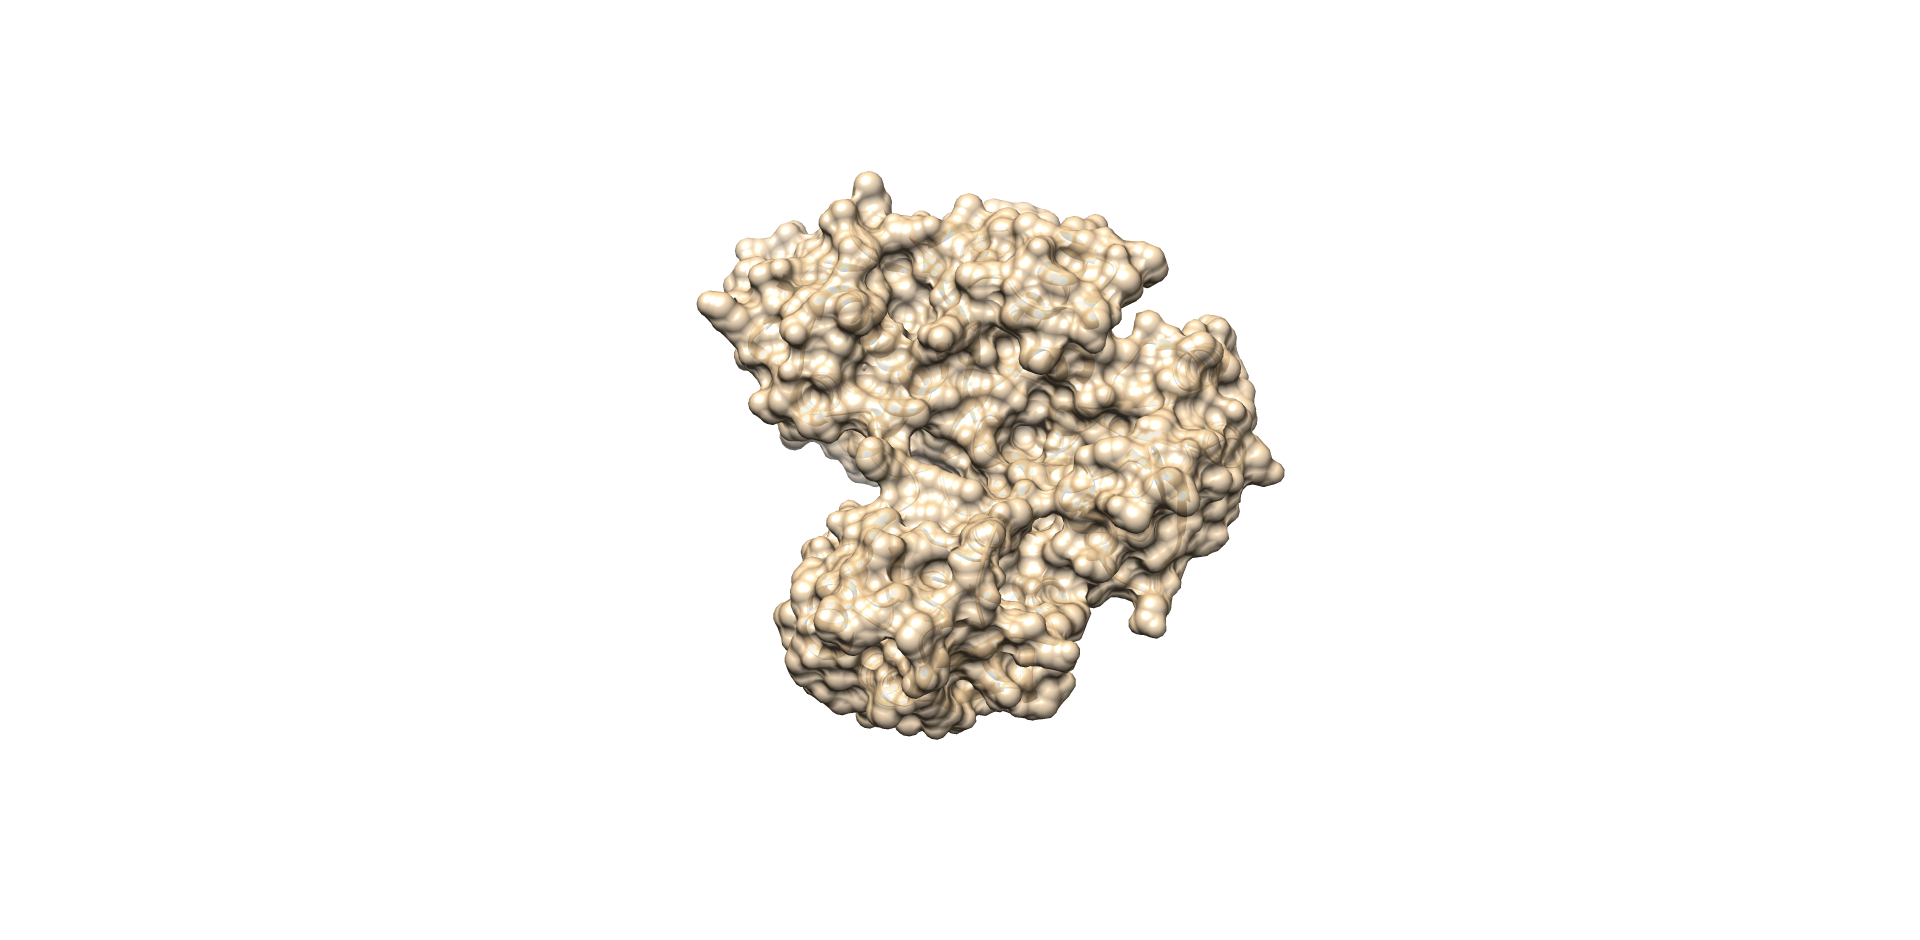
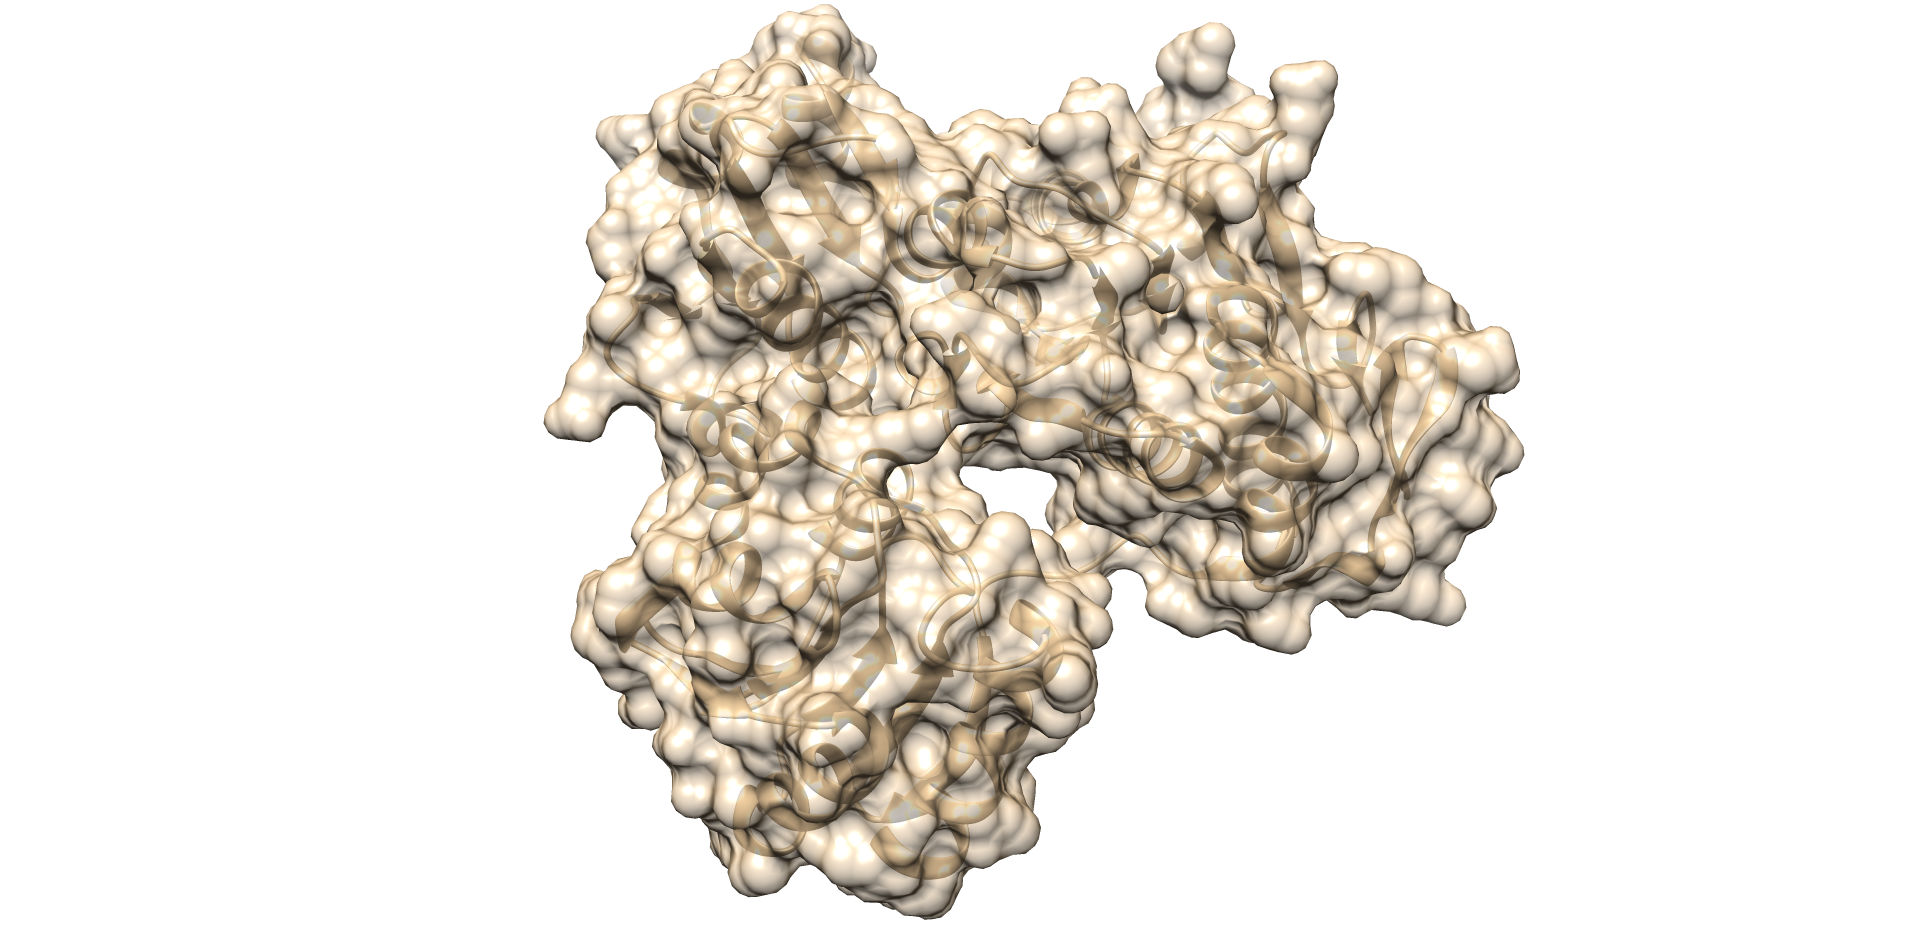
changed publication image

Changed region(s): [[0.2812, 0.0, 0.8125, 0.9872]]

diff --git a/lab4/intructions.md b/lab4/intructions.md
@@ -66,5 +66,5 @@
 2. Выбрать представление **Ribbons + Surface (частично прозрачная поверхность)**  
 3. Настройки:  
    - Фон: **Actions → Color → all options → background → white**  
-   - Прозрачность поверхности: **Actions → Surface → transparency ≈ 30%**     
+   - Прозрачность поверхности: **Actions → Surface → transparency ≈ 50%**     
 4. Сохранить изображение: **File → Save Image → publication.png**
